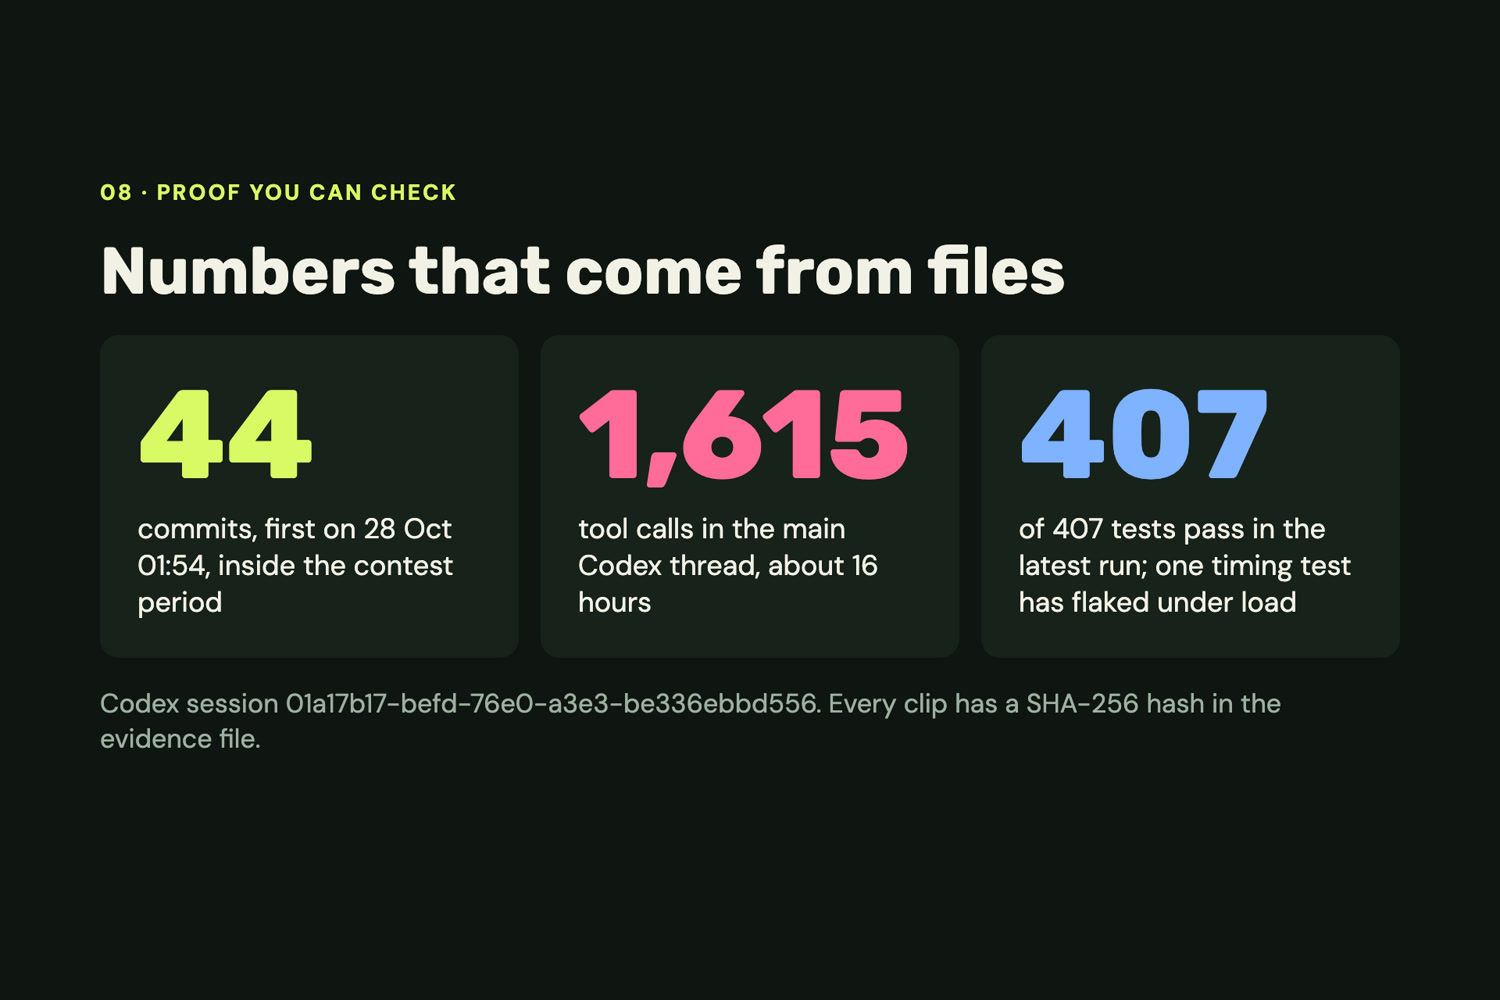
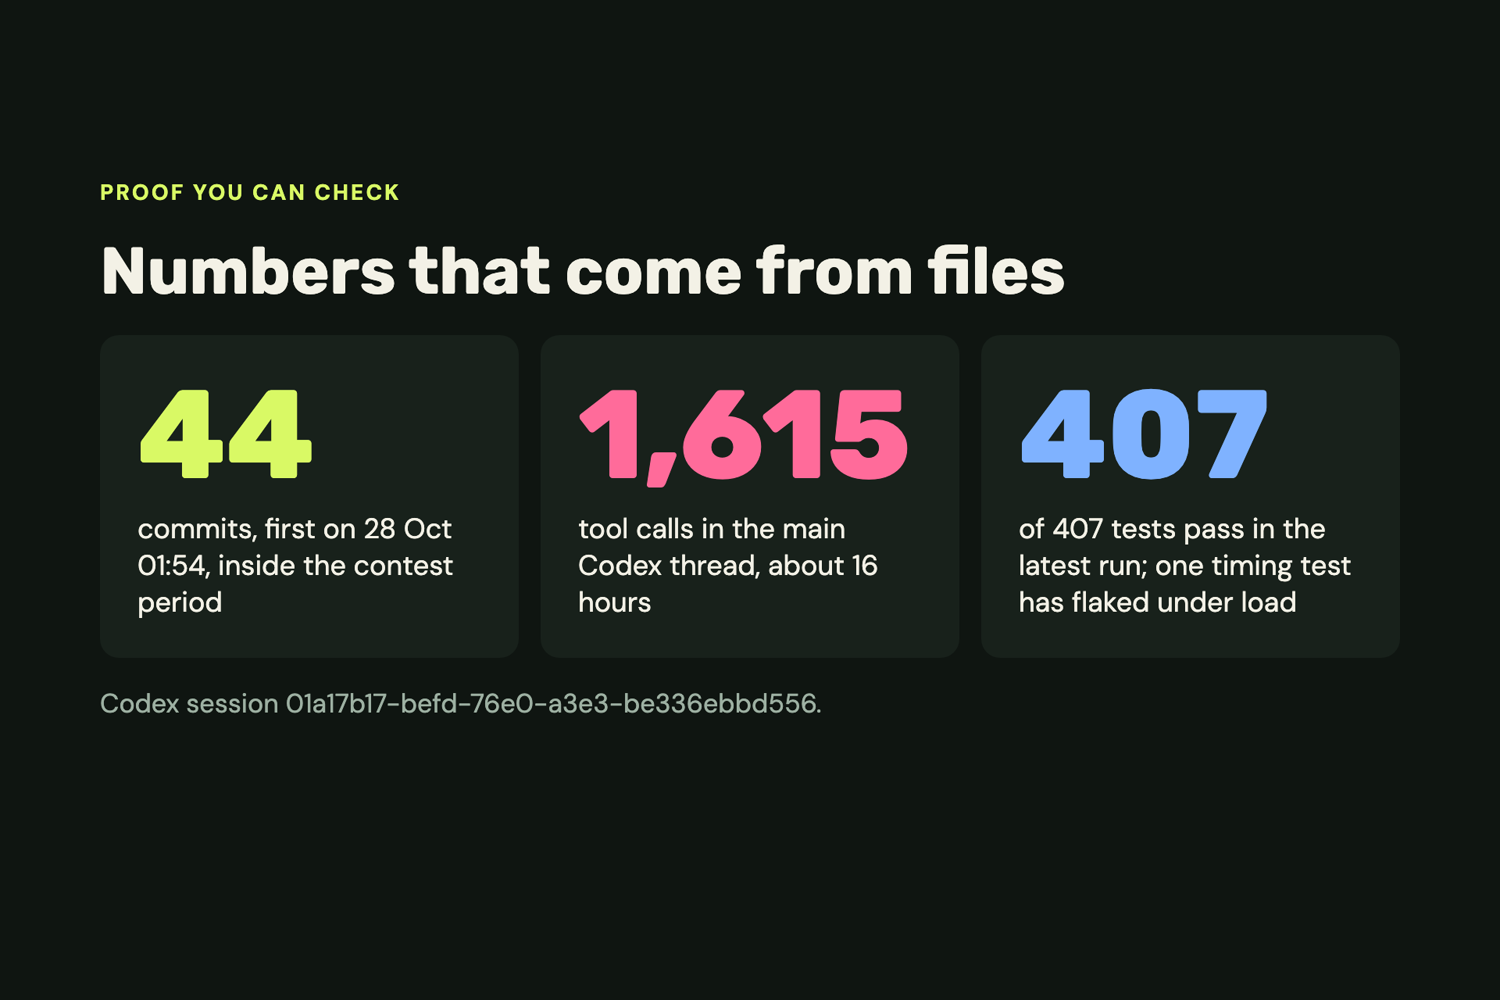
Align the Codex role wording with the submission form; redo evidence and Codex status images

Changed region(s): [[0.552, 0.682, 0.8587, 0.713], [0.0613, 0.186, 0.3067, 0.217], [0.0613, 0.713, 0.184, 0.744]]

diff --git a/SUBMISSION.md b/SUBMISSION.md
@@ -16,7 +16,7 @@ Twitch integration: two paths into the same rules core. (1) Login-free: an anony
 Face tracking: the page runs Google's MediaPipe Face Landmarker in the browser on the streamer's camera (nothing is uploaded), auto-frames the picture around the face, mirrors it like a mirror, and judges a catch by the head's left/right position only. Limits, stated plainly: it assumes one person; it was measured on one Android phone with one person wearing glasses (about 22 frames per second, judged positions matched the head position), not in a study; accuracy depends on lighting and camera placement; and a phone can be the camera but phone-only or outdoor streaming is out of scope because those apps have no place for a browser-source overlay. Without a camera the game falls back to keyboard or mouse input. The Node test suite covers game rules, waves, the Twitch adapter and the overlay protocol with fake clocks and a local Twitch protocol simulator. Verification status: the anonymous IRC path connected to a real channel and received the room id, and real chat commands (`!drop`, `!pie`) typed from a second Twitch account on a real channel triggered balls and pies, as shown in the demo video (the game footage there is a local recording, not a live broadcast); the EventSub path reached the connection stage only and has not been verified live for chat delivery; Bits and supporter features were tested with simulated cheers only; phone testing covered face tracking and an early version of the game; the OBS overlay was checked in a synthetic Browser Source profile and shows a subset of the game page. The test suite reports 407 tests; on 31 Oct all 407 passed in a run where loopback listening was permitted (inside a sandbox the 2 `serve_local` tests fail with `EPERM`).
 
 ## How we used Codex
-Codex was the main developer. In Codex sessions we designed the shared rules core, wrote the EventSub adapter and OAuth flow, defined the versioned overlay protocol, and wrote the Node test suite. Independent review of each stage was done by a separate reviewer against frozen file hashes, and Codex fixed the issues it raised (for example a tie between tracking loss and an attack deadline that wrongly counted a HIT). After the Codex subscription ended, the final integration pass (English UI, the login-free IRC chat path, face tracking and the catch game, the basketball theme, submission packaging) was done with Claude Code, working alongside the Codex-built core; this is disclosed here for transparency.
+In the main Codex thread (about 16 hours and 1,615 tool calls) we designed the plan and the shared rules core, wrote the EventSub adapter and OAuth flow, defined the versioned overlay protocol, and wrote the Node test suite. Each stage was reviewed separately against frozen file hashes, and Codex fixed the issues the reviews raised (for example a tie between tracking loss and an attack deadline that wrongly counted a HIT). After that thread ended, the final integration pass (English UI, the login-free IRC chat path, face tracking and the catch game, the basketball theme, submission packaging) was done with Claude Code, working alongside the Codex-built core; both tools are credited here so the history is clear.
 
 ## Codex session ID
 Official wording: the thread where most of the project was built (type `/status` in Codex).

diff --git a/README.md b/README.md
@@ -81,4 +81,4 @@ The suite reports 407 tests; on 31 Oct all 407 passed in a run where loopback li
 
 ## Built with Codex
 
-The game core, Twitch adapter, overlay protocol and test suite were developed in OpenAI Codex sessions. After the Codex subscription ended, the final integration (English UI, the login-free chat path, face tracking, the basketball theme and submission packaging) was done with Claude Code, working alongside the Codex-built core. See [SUBMISSION.md](SUBMISSION.md).
+In the main OpenAI Codex thread (about 16 hours and 1,615 tool calls; session ID in [SUBMISSION.md](SUBMISSION.md)) the plan, the shared game core, the Twitch adapter, the overlay protocol and the test suite were developed. After that thread ended, the final integration (English UI, the login-free chat path, face tracking, the basketball theme and submission packaging) was done with Claude Code, working alongside the Codex-built core. See [SUBMISSION.md](SUBMISSION.md).
